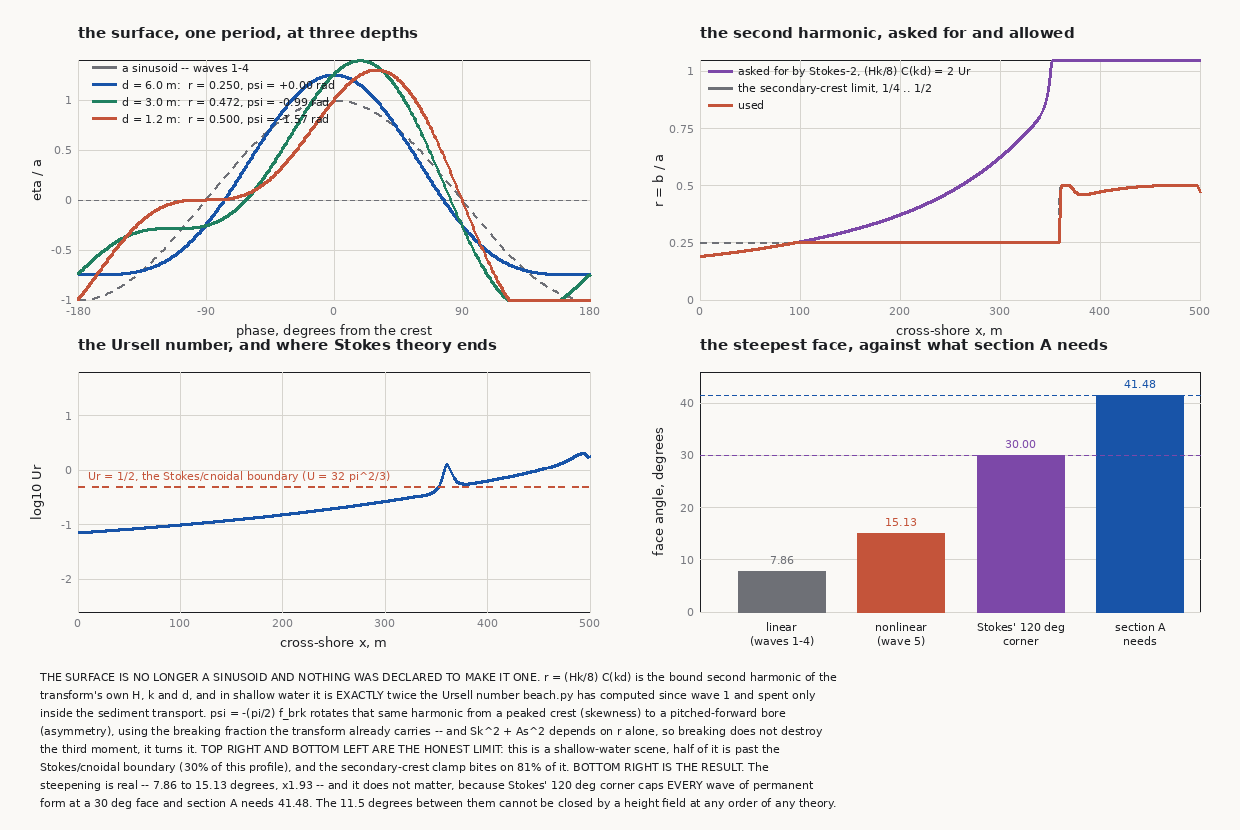
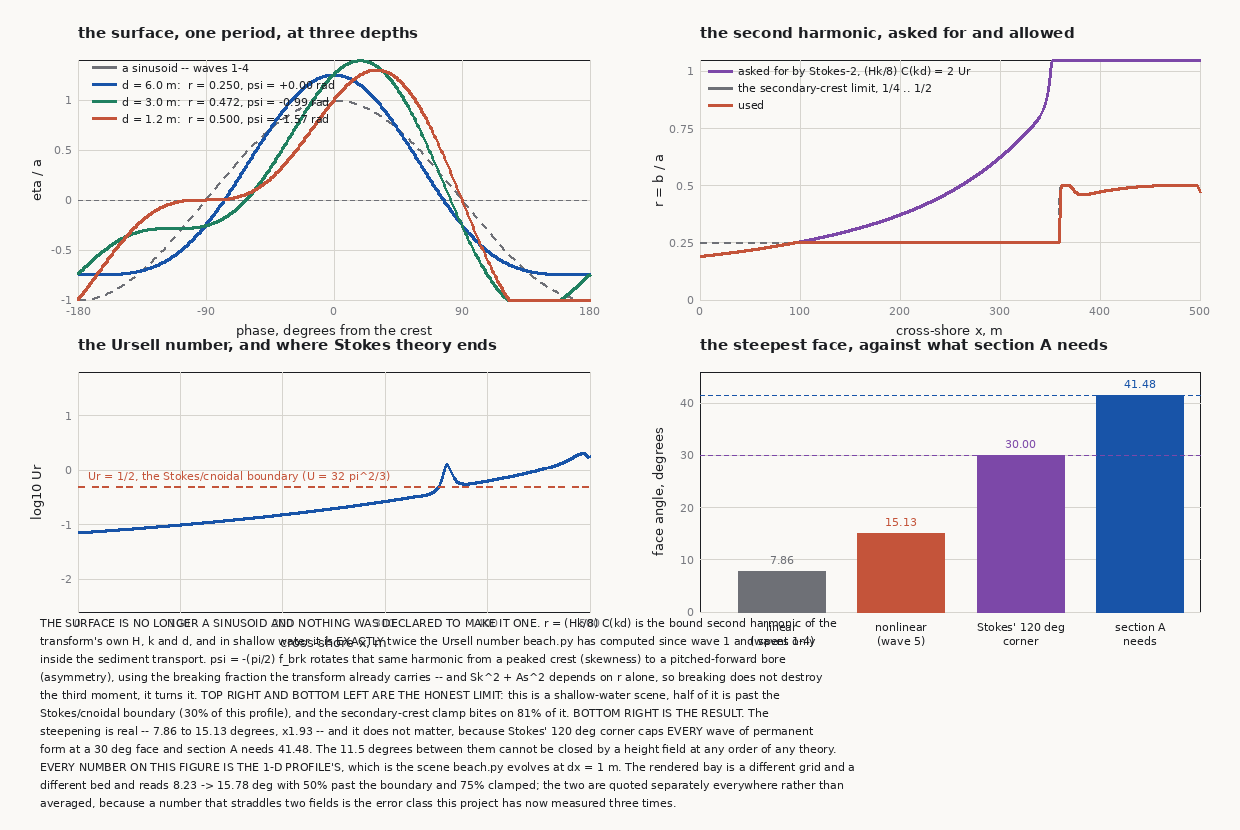
evidence 5: the shape figure states which grid its numbers are from
Every number on s5-surface-shape.png is the 1-D profile's; the rendered bay is a
different grid and a different bed and reads 8.23 -> 15.78 with 50 per cent past
the boundary and 75 per cent clamped. Quoted separately rather than averaged,
because a number straddling two fields is the error class this project has now
measured three times.

Claude-Session: https://claude.ai/code/session_01F59gHv9Mb54VT3C3EE9Hq5

Changed region(s): [[0.0306, 0.7229, 0.6742, 0.994]]

diff --git a/terrain-renderer/reference-impl/pool_figures.py b/terrain-renderer/reference-impl/pool_figures.py
@@ -672,70 +672,73 @@ def fig_window(S, path):
             % _trip(n, '%.4f'), MUTED)
 
     # -- the two weightings, and the shares they integrate to
-    cx = P.Axes(img, (100, 520, 640, 810), (0, 50), (0, 1.05),
+    cx = P.Axes(img, (100, 520, 640, 800), (0, 50), (0, 1.36),
                 title='Two receivers, two weightings of the same window',
                 xlabel='water-side polar angle, deg',
                 ylabel='normalised weight (peak = 1)')
     cx.frame(_ticks(0, 50, 5), _ticks(0, 1.0, 5), '%g', '%.2f')
-    tw = np.linspace(0., float(tc[1]), 3000)
+    tw = np.linspace(0., float(tc[1]), 2000)
     wb = np.cos(tw) * np.sin(tw)
     wv = np.sin(tw) ** 2
     cx.line(np.rad2deg(tw), wb / wb.max(), PURPLE, 3)
     cx.line(np.rad2deg(tw), wv / wv.max(), (24, 122, 156), 3)
     cx.vline(float(np.rad2deg(tc[1])), GREY, 1, dash=(3, 4))
     P.legend(cx, [(PURPLE, 'horizontal BED:  cos t sin t'),
-                  ((24, 122, 156), 'vertical WALL:  sin^2 t')], 2.0, 1.00)
-    cx.text(2.0, 0.70, 'the wall is weighted hardest at the RIM, where the', INK)
-    cx.text(2.0, 0.65, 'air-side horizon is; the bed peaks at 45 deg and the', INK)
-    cx.text(2.0, 0.60, 'gain n^2 cancels its compression exactly.', INK)
+                  ((24, 122, 156), 'vertical WALL:  sin^2 t')], 2.0, 1.32)
+    cx.text(2.0, 1.15, 'the wall is weighted hardest at the RIM, where the', INK)
+    cx.text(2.0, 1.10, 'air-side horizon is; the bed peaks at 45 deg, where the',
+            INK)
+    cx.text(2.0, 1.05, 'n^2 gain cancels the compression exactly.', INK)
 
     wbf, wvf = ATM.window_shares(False)
-    dx = P.Axes(img, (760, 520, 1270, 810), (-0.6, 2.6), (0, 0.62),
+    dx = P.Axes(img, (760, 520, 1270, 800), (-0.6, 2.6), (0, 0.80),
                 title='The share each one collects, and the number it replaced',
                 xlabel='band', ylabel='(1/pi) INT L cos dw for uniform L = 1')
     dx.frame(None, _ticks(0, 0.6, 6), '%g', '%.1f')
     for c in range(3):
         _bar(dx, c - 0.17, 0., float(wbf[c]), CH[c], 0.15)
         _bar(dx, c + 0.17, 0., float(wvf[c]), FAINT, 0.15, outline=CH[c])
-        dx.text(c - 0.17, float(wbf[c]) + .012, '%.4f' % wbf[c], INK, 'ms')
-        dx.text(c + 0.17, float(wvf[c]) + .012, '%.4f' % wvf[c], INK, 'ms')
-        dx.text(c, -0.026, CHN[c], MUTED, 'ma')
+        dx.text(c - 0.17, float(wbf[c]) + .014, '%.4f' % wbf[c], INK, 'ms')
+        dx.text(c + 0.17, float(wvf[c]) + .014, '%.4f' % wvf[c], INK, 'ms')
+        dx.text(c, -0.032, CHN[c], MUTED, 'ma')
     dx.hline(0.5, WARN, 2, dash=(6, 5))
     dx.text(2.55, 0.515, 'WALL_SKY = 0.5, superseded', WARN, 'rs')
-    dx.text(-0.55, 0.59, 'solid  BED   = 1/n^2 exactly = %s'
+    dx.text(-0.55, 0.775, 'solid  BED   = 1/n^2 exactly = %s'
             % _trip(1. / n ** 2, '%.4f'), INK)
-    dx.text(-0.55, 0.56,
+    dx.text(-0.55, 0.740,
             'hollow WALL  = 0.5 - tir_vert(tc)(1 - 1/n^2) = %s'
             % _trip(wvf, '%.4f'), INK)
-    dx.text(-0.55, 0.53, 'ratio SKY_VERT = %s' % _trip(ATM.SKY_VERT, '%.4f'),
+    dx.text(-0.55, 0.705, 'ratio SKY_VERT = %s' % _trip(ATM.SKY_VERT, '%.4f'),
             INK)
 
     P.caption(img, [
-        'WHAT IS MEASURED. What a submerged eye or facet actually has over it. '
-        'The whole air-side hemisphere arrives inside a cone of half-angle '
-        'asin(1/n) = %s deg -- dispersive, and drawn per band.'
+        'WHAT IS MEASURED. What a submerged eye or facet actually has over it: '
+        'the whole air-side hemisphere, inside a cone of half-angle asin(1/n) '
+        '= %s deg -- dispersive, and drawn per band.'
         % _trip(np.rad2deg(tc), '%.3f'),
         'The mapping is singular at the rim (top right): every air direction '
         'below %.2f deg of elevation is folded into the outermost 1.00 deg of '
-        'the window, so an environment lookup uniform in the water-side angle '
-        'starves exactly the low-elevation sky.' % el1,
+        'the window.' % el1,
+        'So an environment lookup uniform in the water-side angle starves '
+        'exactly the low-elevation sky, which is the half that is brightest.',
         'ON A HORIZONTAL BED the n^2 gain and the compression cancel exactly: '
-        'the window share is 1/n^2 = %s and "a full hemisphere of SKY_AMB" is '
-        'the right answer. That is why the bed term always worked.'
-        % _trip(1. / n ** 2, '%.4f'),
-        'ON A VERTICAL WALL the cancellation fails, and by the largest factor '
-        'available: sin^2 weights the rim, cos sin weights 45 deg, and the '
-        'wall collects %s where the bed collects %s.'
-        % (_trip(wvf, '%.4f'), _trip(wbf, '%.4f')),
-        'CORRECTED VALUE. WALL_SKY = 0.5 -- correct as a partition of a '
+        'the window share is 1/n^2 = %s, so "a full hemisphere of SKY_AMB" is '
+        'right, and the bed term always worked.' % _trip(1. / n ** 2, '%.4f'),
+        'ON A VERTICAL WALL it fails, and by the largest factor available: '
+        'sin^2 weights the rim, cos sin weights 45 deg, and the wall collects '
+        '%s where the bed collects %s.' % (_trip(wvf, '%.4f'),
+                                           _trip(wbf, '%.4f')),
+        'CORRECTED VALUE. WALL_SKY = 0.5 -- right as a partition of a '
         'HEMISPHERE, wrong as a share of a WINDOW -- is superseded by SKY_VERT '
-        '= %s, a factor of %.2f. Both closed forms are guarded here against '
-        "atmosphere.window_shares' own quadrature to 1e-8."
+        '= %s, a factor of %.2f.'
         % (_trip(ATM.SKY_VERT, '%.4f'), float(0.5 / ATM.SKY_VERT[1])),
+        'Both closed forms are guarded here to 1e-8 against '
+        "atmosphere.window_shares' own quadrature, which cannot see either of "
+        'them.',
         '`?` The RADIANCE filling the window is not derived: SKY_HOR, SKY_TOP '
         'and the 0.55 exponent between them are hand-set in atmosphere.py. This '
         'figure draws the GEOMETRY, which is, and sets L = 1.',
-    ], 40, 835)
+    ], 40, 845)
     return P.save(img, path)
 
 
@@ -746,28 +749,31 @@ def fig_absorption(S, path):
     a = OPT.ABS
     img = P.canvas(1280, 1010)
 
-    ax = P.Axes(img, (100, 72, 640, 420), (405, 670), (0, 0.30),
+    ax = P.Axes(img, (100, 72, 640, 420), (405, 670), (0, 0.31),
                 title='a is a BAND MEAN, over bands that tile',
                 xlabel='wavelength, nm', ylabel='absorption a, 1/m')
-    ax.frame(_ticks(410, 670, 5), _ticks(0, 0.30, 6), '%g', '%.2f')
+    ax.frame([420, 460, 500, 540, 580, 620, 660], _ticks(0, 0.30, 6),
+             '%g', '%.2f')
     for c in range(3):
         lo, hi = 1000. * OPT.BAND[c]
         ax.d.rectangle([float(ax.px(min(lo, hi))), float(ax.py(float(a[c]))),
                         float(ax.px(max(lo, hi))), float(ax.py(0.))],
                        fill=CH[c])
         ax.vline(1000. * float(OPT.LAM[c]), (255, 255, 255), 1, dash=(3, 3))
-        ax.text(1000. * float(OPT.LAM[c]), float(a[c]) + .012,
-                '%.5f' % a[c], INK, 'ms')
-        ax.text(1000. * float(OPT.LAM[c]), 0.012, '%.0f' % (1000 * OPT.LAM[c]),
-                (255, 255, 255), 'ms')
-    ax.text(412, 0.285, 'bar width = the Voronoi cell of its own wavelength;', INK)
-    ax.text(412, 0.270, 'the three tile %.1f - %.1f nm with no gap.'
+        ax.text(1000. * float(OPT.LAM[c]), float(a[c]) + .008,
+                '%.5f  (%s, %.0f nm)' % (a[c], CHN[c], 1000 * OPT.LAM[c]),
+                INK, 'ms')
+    ax.text(412, 0.295, 'bar width = the Voronoi cell of its own wavelength;',
+            INK)
+    ax.text(412, 0.280, 'the three tile %.1f - %.1f nm with no gap.'
             % (1000 * OPT.BAND[2, 0], 1000 * OPT.BAND[0, 1]), INK)
-    ax.text(412, 0.255, 'height = a averaged over THAT cell, not sampled at '
+    ax.text(412, 0.265, 'height = a averaged over THAT cell, not sampled at '
                         'its centre.', INK)
+    ax.text(412, 0.250, 'dotted white = the nominal wavelength it is centred on.',
+            MUTED)
 
     dd = np.linspace(0., 3.2, 400)
-    bx = P.Axes(img, (760, 72, 1220, 420), (0, 3.2), (0, 1.02),
+    bx = P.Axes(img, (760, 72, 1220, 420), (0, 3.2), (0, 1.28),
                 title='...and what it does to a path',
                 xlabel='water crossed, m', ylabel='transmission')
     bx.frame(_ticks(0, 3.2, 4), _ticks(0, 1.0, 5), '%g', '%.2f')
@@ -776,19 +782,19 @@ def fig_absorption(S, path):
         bx.line(dd, OPT._e3(a[c] * dd), CH[c], 2, dash=(5, 5))
     bx.vline(dep, WARN, 2, dash=(6, 5))
     bx.vline(2. * dep, WARN, 2, dash=(6, 5))
-    bx.text(dep + .05, 0.98, 'one way', WARN)
-    bx.text(2. * dep + .05, 0.98, 'round trip', WARN, 'rs')
+    bx.text(dep + .05, 1.06, 'one way', WARN)
+    bx.text(2. * dep - .05, 1.06, 'round trip', WARN, 'rs')
     P.legend(bx, [(GREY, 'solid: vertical exp(-a d)'),
                   (GREY, 'dashed: diffuse 2E_3(a d), a cosine law off the bed')],
-             0.12, 0.90)
-    bx.text(0.12, 0.60, 'vertical at DEPTH   %s' % _trip(np.exp(-a * dep)), INK)
-    bx.text(0.12, 0.55, 'diffuse at DEPTH    %s' % _trip(OPT._e3(a * dep)), INK)
-    bx.text(0.12, 0.50, 'the diffuse path is LONGER: a fifth of the red.', MUTED)
+             0.08, 1.24)
+    bx.text(0.08, 0.36, 'vertical at DEPTH   %s' % _trip(np.exp(-a * dep)), INK)
+    bx.text(0.08, 0.30, 'diffuse at DEPTH    %s' % _trip(OPT._e3(a * dep)), INK)
+    bx.text(0.08, 0.24, 'the diffuse path is LONGER: a fifth of the red.', MUTED)
 
     slant = 1. / np.sqrt(1. - (np.sqrt(1. - S['COS_SUN'] ** 2) / OPT.IOR) ** 2)
-    cx = P.Axes(img, (100, 520, 1220, 810), (-0.6, 2.6), (0, 1.05),
-                title='The four legs of this pool own chain, at DEPTH = %.2f m'
-                      % dep,
+    cx = P.Axes(img, (100, 520, 1220, 800), (-0.6, 2.6), (0, 1.48),
+                title="The four legs of this pool's own chain, at DEPTH = "
+                      '%.2f m' % dep,
                 xlabel='band', ylabel='transmission of that leg')
     cx.frame(None, _ticks(0, 1.0, 5), '%g', '%.2f')
     legs = [
@@ -800,32 +806,33 @@ def fig_absorption(S, path):
     ]
     for i, (lab, v, col) in enumerate(legs):
         for c in range(3):
-            _bar(cx, c - 0.30 + 0.20 * i, 0., float(v[c]), col, 0.09)
-        cx.text(-0.55, 1.00 - 0.055 * i, '%s   %s' % (_trip(v), lab), col)
+            _bar(cx, c - 0.30 + 0.20 * i, 0., float(v[c]), col, 0.085)
+        cx.text(-0.55, 1.43 - 0.055 * i, '%s   %s' % (_trip(v), lab), col)
     for c in range(3):
-        cx.text(c, -0.05, CHN[c], MUTED, 'ma')
+        cx.text(c, -0.06, CHN[c], MUTED, 'ma')
 
     P.caption(img, [
         'WHAT IS MEASURED. The one material property of the water: a = %s /m, '
-        'Pope & Fry (1997), averaged over the Voronoi band each channel '
-        'actually integrates rather than sampled at its nominal wavelength.'
-        % _trip(a, '%.5f'),
+        'Pope & Fry (1997) -- averaged over the Voronoi band each channel '
+        'integrates, not sampled at its nominal wavelength.' % _trip(a, '%.5f'),
         'The band mean matters most in RED, where a runs from 0.09 to 0.34 '
-        'across the band: the point sample and the band mean differ by 5.0% '
-        'there, and every other spectral quantity in optics.py is already taken '
-        'over these bands.',
+        'across the band and the point sample differs from the band mean by '
+        '5.0%.',
+        'Every other spectral quantity in optics.py -- n, the caustic eta, the '
+        'dispersion sweep -- is already taken over these same bands.',
         'CORRECTED VALUE. The triple this replaced was (0.2750, 0.0546, '
         '0.0145): red right to 0.2%, green 6.9% high, and blue lifted straight '
-        'out of Smith & Baker (1981) at 450 nm -- 48% above Pope & Fry, from a '
-        "paper this project's own provenance file bans for blue by name.",
-        'The bottom panel is why one absorption gives four different numbers per '
-        'band: the sun enters at a refracted slant (x%.4f), light leaves the '
-        'bed over a cosine law, and only slab_esc has the escape inside the '
-        'same integral as the attenuation.' % slant[0],
-        'DERIVED throughout: optics.ABS, optics._e3, optics.slab_esc, and the '
-        'slant from render own cos_i through Snell. 2E_3(0) = 1 is guarded '
-        'before drawing.',
-    ], 40, 835)
+        'out of Smith & Baker (1981) at 450 nm.',
+        "That is 48% above Pope & Fry, from a paper this project's own "
+        'provenance file bans for blue by name; two independent passes reached '
+        'the same identification.',
+        'The bottom panel is why one absorption gives four numbers per band: '
+        'the sun enters at a refracted slant (x%.4f), light leaves the bed over '
+        'a cosine law, and only slab_esc has the escape' % slant[0],
+        'inside the same integral as the attenuation. DERIVED throughout: '
+        "optics.ABS, _e3, slab_esc, and the slant from render's own cos_i "
+        'through Snell. 2E_3(0) = 1 is guarded before drawing.',
+    ], 40, 845)
     return P.save(img, path)
 
 

diff --git a/terrain-renderer/reference-impl/beach_evidence.py b/terrain-renderer/reference-impl/beach_evidence.py
@@ -1063,7 +1063,10 @@ def fig_surface_shape(sc, path):
         'steepening is real -- %.2f to %.2f degrees, x%.2f -- and it does not matter, because Stokes\' 120 deg corner caps EVERY wave of permanent'
         % (v_lin, v_nl, v_nl / v_lin),
         'form at a 30 deg face and section A needs %.2f. The %.1f degrees between them cannot be closed by a height field at any order of any theory.'
-        % (B.snell_cone_face_deg(), B.snell_cone_face_deg() - B.STOKES_FACE_DEG)])
+        % (B.snell_cone_face_deg(), B.snell_cone_face_deg() - B.STOKES_FACE_DEG),
+        'EVERY NUMBER ON THIS FIGURE IS THE 1-D PROFILE\'S, which is the scene beach.py evolves at dx = 1 m. The rendered bay is a different grid and a',
+        'different bed and reads 8.23 -> 15.78 deg with 50% past the boundary and 75% clamped; the two are quoted separately everywhere rather than',
+        'averaged, because a number that straddles two fields is the error class this project has now measured three times.'])
     return P.save(img, path)
 
 
